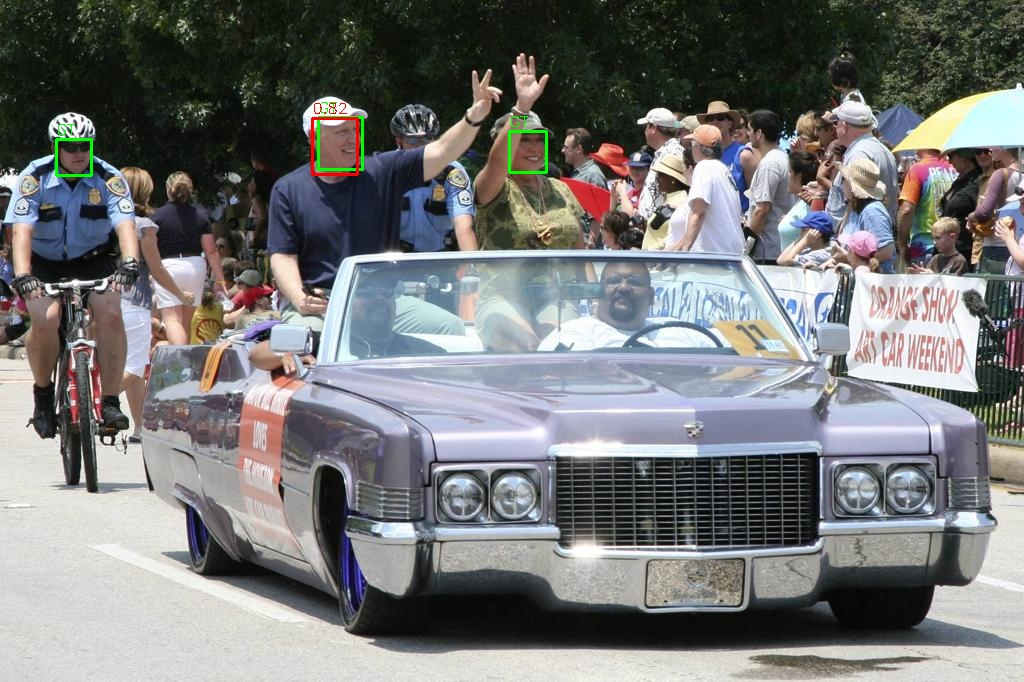
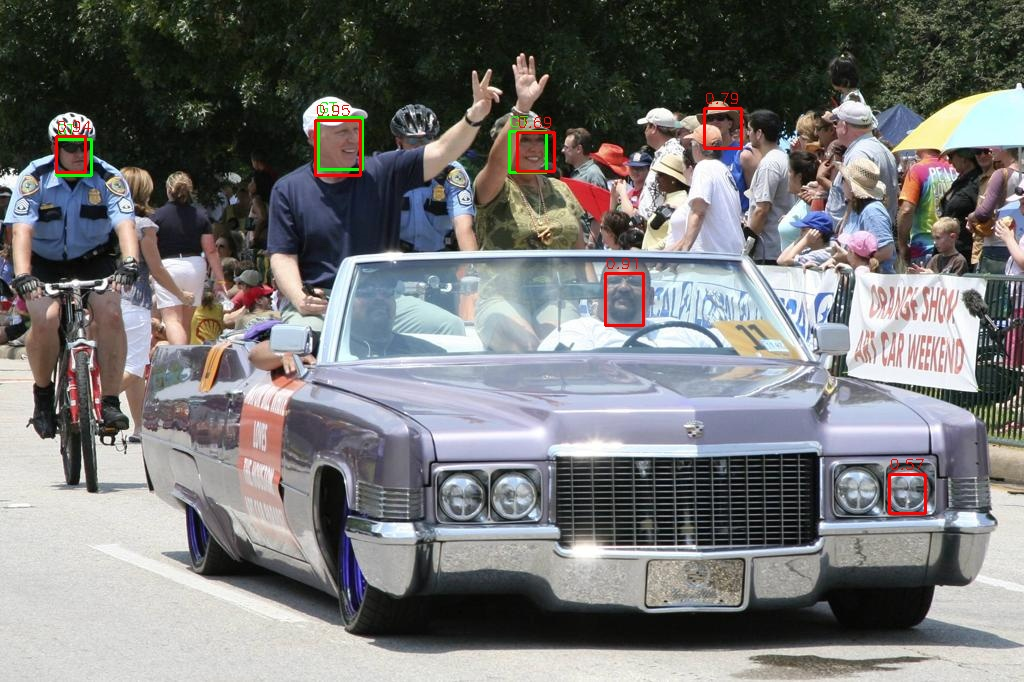
My final, some comments are wild though

diff --git a/UG-ZAD1-FACE-DETECTION/visualise_detection.py b/UG-ZAD1-FACE-DETECTION/visualise_detection.py
@@ -1,131 +1,225 @@
+# import torch
+# import cv2
+# import torchvision.transforms.v2.functional as F
+# from torch.utils.data import DataLoader
+# import os
+# import logging
+# import torchvision.transforms.v2 as transforms
+#
+# from models.FaceDetector import FaceDetectorLightning
+# from train_face_detector import collate_fn
+# from widerface_data_generation.WiderFaceDetectionDataset import WiderFaceDetectionDataset
+#
+#
+# # face_detector_ckpt_v1 = "lightning_logs/face_detector_v1/checkpoints/epoch=5-mAP=41_79.ckpt" # TODO: set when generated
+# face_detector_ckpt_v1 = "lightning_logs/face_detector_v1/checkpoints/epoch=4-mAP=40_77.ckpt" # TODO: set when generated
+# OUTPUT_DIR = "visualization_results"
+# THRESHOLD = 0.5  # Rysujemy tylko predykcje z pewnością > 50%
+# NUM_IMAGES_TO_SAVE = 10  # Ile przykładów zapisać
+# DEVICE = torch.device("cuda" if torch.cuda.is_available() else "cpu")
+#
+# os.makedirs(OUTPUT_DIR, exist_ok=True)
+#
+#
+# test_transform = transforms.Compose([
+#     transforms.ToImage(),
+#     transforms.ToDtype(torch.float32, scale=True),
+#     transforms.Normalize(mean=[0.485, 0.456, 0.406], std=[0.229, 0.224, 0.225])
+# ])
+#
+# def tensor_to_cv2_image(tensor_img):
+#     """Konwertuje tensor PyTorch [C, H, W] na obraz OpenCV [H, W, C] BGR, cofając normalizację."""
+#     img = tensor_img.clone().cpu()
+#
+#     mean = torch.tensor([0.485, 0.456, 0.406]).view(3, 1, 1)
+#     std = torch.tensor([0.229, 0.224, 0.225]).view(3, 1, 1)
+#     img = img * std + mean
+#
+#     img = torch.clamp(img, 0, 1)
+#     img_byte = (img * 255).to(torch.uint8)
+#
+#     img_numpy = img_byte.permute(1, 2, 0).numpy()
+#     img_bgr = cv2.cvtColor(img_numpy, cv2.COLOR_RGB2BGR)
+#     return img_bgr
+#
+#
+# def draw_boxes(image, boxes, color, label_text=None, scores=None):
+#     """Rysuje ramki na obrazie."""
+#     img_copy = image.copy()
+#     for i, box in enumerate(boxes):
+#         x1, y1, x2, y2 = box.int().cpu().numpy()
+#         # Rysowanie prostokąta
+#         cv2.rectangle(img_copy, (x1, y1), (x2, y2), color, 2)
+#
+#         # Dodawanie opisu (opcjonalne)
+#         if label_text or scores is not None:
+#             text = label_text if label_text else ""
+#             if scores is not None:
+#                 score = scores[i].item()
+#                 text += f" {score:.2f}" if text else f"{score:.2f}"
+#
+#             if text:
+#                 cv2.putText(img_copy, text, (x1, y1 - 5),
+#                             cv2.FONT_HERSHEY_SIMPLEX, 0.5, color, 1)
+#     return img_copy
+#
+#
+# def visualize():
+#     # 1. Ładowanie modelu
+#     logging.info(f"Loading model from {face_detector_ckpt_v1}...")
+#     model = FaceDetectorLightning.load_from_checkpoint(face_detector_ckpt_v1)
+#     model.to(DEVICE)
+#     model.eval()
+#
+#     # 2. Przygotowanie danych testowych
+#     # Używamy funkcji z train_detector.py żeby mieć ten sam split
+#     logging.info("Preparing test data...")
+#     test_ds = WiderFaceDetectionDataset(root="data", split="val", transform=test_transform)
+#     test_loader = DataLoader(test_ds, batch_size=4, collate_fn=collate_fn, num_workers=2)
+#
+#     logging.info(f"Starting visualization. Saving {NUM_IMAGES_TO_SAVE} images to '{OUTPUT_DIR}'...")
+#
+#     saved_count = 0
+#     i=0
+#     with torch.no_grad():
+#         for batch_idx, (images, targets) in enumerate(test_loader):
+#             if i == 0:
+#                 i+=1
+#                 continue
+#             if saved_count >= NUM_IMAGES_TO_SAVE:
+#                 break
+#
+#             # Przeniesienie na GPU
+#             images = [img.to(DEVICE) for img in images]
+#             target = targets[0]  # batch_size=1, więc bierzemy pierwszy element
+#
+#             # Predykcja modelu
+#             outputs = model(images)
+#             output = outputs[0]
+#
+#             # --- RYSOWANIE ---
+#             # 1. Konwersja tensora na obraz OpenCV
+#             cv2_img = tensor_to_cv2_image(images[0])
+#
+#             # 2. Rysowanie GROUND TRUTH (Zielony)
+#             gt_boxes = target['boxes']
+#             img_with_gt = draw_boxes(cv2_img, gt_boxes, color=(0, 255, 0), label_text="GT")
+#
+#             # 3. Filtrowanie i rysowanie PREDYKCJI (Czerwony)
+#             pred_boxes = []
+#             pred_scores = []
+#             for box, score in zip(output['boxes'], output['scores']):
+#                 if score > THRESHOLD:
+#                     pred_boxes.append(box)
+#                     pred_scores.append(score)
+#
+#             if pred_boxes:
+#                 pred_boxes_tensor = torch.stack(pred_boxes)
+#                 pred_scores_tensor = torch.stack(pred_scores)
+#                 # Rysujemy na obrazku, który ma już GT
+#                 final_img = draw_boxes(img_with_gt, pred_boxes_tensor,
+#                                        color=(0, 0, 255), scores=pred_scores_tensor)
+#             else:
+#                 final_img = img_with_gt
+#
+#             # Zapis do pliku
+#             save_path = os.path.join(OUTPUT_DIR, f"result_{batch_idx}.jpg")
+#             cv2.imwrite(save_path, final_img)
+#             saved_count += 1
+#             logging.info(f"Saved {save_path}")
+#
+#     logging.info("Done!")
+#
+#
+# if __name__ == '__main__':
+#     visualize()
+
+
 import torch
 import cv2
-import torchvision.transforms.v2.functional as F
-from torch.utils.data import DataLoader
 import os
 import logging
-import torchvision.transforms.v2 as transforms
+from torch.utils.data import DataLoader
+from skimage.feature import Cascade
+from skimage import data
+import numpy as np
 
-from models.FaceDetector import FaceDetectorLightning
 from train_face_detector import collate_fn
 from widerface_data_generation.WiderFaceDetectionDataset import WiderFaceDetectionDataset
 
-
-# face_detector_ckpt_v1 = "lightning_logs/face_detector_v1/checkpoints/epoch=5-mAP=41_79.ckpt" # TODO: set when generated
-face_detector_ckpt_v1 = "lightning_logs/face_detector_v1/checkpoints/epoch=4-mAP=40_77.ckpt" # TODO: set when generated
+# --- KONFIGURACJA ---
 OUTPUT_DIR = "visualization_results"
-THRESHOLD = 0.5  # Rysujemy tylko predykcje z pewnością > 50%
-NUM_IMAGES_TO_SAVE = 10  # Ile przykładów zapisać
-DEVICE = torch.device("cuda" if torch.cuda.is_available() else "cpu")
-
+NUM_IMAGES_TO_SAVE = 10
 os.makedirs(OUTPUT_DIR, exist_ok=True)
 
-
-test_transform = transforms.Compose([
-    transforms.ToImage(),
-    transforms.ToDtype(torch.float32, scale=True),
-    transforms.Normalize(mean=[0.485, 0.456, 0.406], std=[0.229, 0.224, 0.225])
-])
+# 1. Inicjalizacja Cascade (Viola-Jones)
+# Używamy wbudowanego pliku z wagami dla twarzy frontalnych
+xml_path = data.lbp_frontal_face_cascade_filename()
+detector = Cascade(xml_path)
 
 def tensor_to_cv2_image(tensor_img):
-    """Konwertuje tensor PyTorch [C, H, W] na obraz OpenCV [H, W, C] BGR, cofając normalizację."""
-    img = tensor_img.clone().cpu()
+    """Konwertuje tensor do BGR (bez normalizacji dla prostoty, jeśli test_transform jej nie ma)"""
+    img_numpy = (tensor_img.permute(1, 2, 0).cpu().numpy() * 255).astype(np.uint8)
+    return cv2.cvtColor(img_numpy, cv2.COLOR_RGB2BGR)
 
-    mean = torch.tensor([0.485, 0.456, 0.406]).view(3, 1, 1)
-    std = torch.tensor([0.229, 0.224, 0.225]).view(3, 1, 1)
-    img = img * std + mean
-
-    img = torch.clamp(img, 0, 1)
-    img_byte = (img * 255).to(torch.uint8)
-
-    img_numpy = img_byte.permute(1, 2, 0).numpy()
-    img_bgr = cv2.cvtColor(img_numpy, cv2.COLOR_RGB2BGR)
-    return img_bgr
-
-
-def draw_boxes(image, boxes, color, label_text=None, scores=None):
-    """Rysuje ramki na obrazie."""
+def draw_boxes(image, boxes, color, label_text=None):
     img_copy = image.copy()
-    for i, box in enumerate(boxes):
-        x1, y1, x2, y2 = box.int().cpu().numpy()
-        # Rysowanie prostokąta
+    for box in boxes:
+        # box spodziewany w formacie [x1, y1, x2, y2]
+        x1, y1, x2, y2 = map(int, box)
         cv2.rectangle(img_copy, (x1, y1), (x2, y2), color, 2)
-
-        # Dodawanie opisu (opcjonalne)
-        if label_text or scores is not None:
-            text = label_text if label_text else ""
-            if scores is not None:
-                score = scores[i].item()
-                text += f" {score:.2f}" if text else f"{score:.2f}"
-
-            if text:
-                cv2.putText(img_copy, text, (x1, y1 - 5),
-                            cv2.FONT_HERSHEY_SIMPLEX, 0.5, color, 1)
+        if label_text:
+            cv2.putText(img_copy, label_text, (x1, y1 - 5),
+                        cv2.FONT_HERSHEY_SIMPLEX, 0.5, color, 1)
     return img_copy
 
-
 def visualize():
-    # 1. Ładowanie modelu
-    logging.info(f"Loading model from {face_detector_ckpt_v1}...")
-    model = FaceDetectorLightning.load_from_checkpoint(face_detector_ckpt_v1)
-    model.to(DEVICE)
-    model.eval()
+    # 2. Dane testowe (bez skomplikowanych transformacji, żeby skimage widziało piksele)
+    test_ds = WiderFaceDetectionDataset(root="data", split="val", transform=None)
+    test_loader = DataLoader(test_ds, batch_size=1, collate_fn=collate_fn)
 
-    # 2. Przygotowanie danych testowych
-    # Używamy funkcji z train_detector.py żeby mieć ten sam split
-    logging.info("Preparing test data...")
-    test_ds = WiderFaceDetectionDataset(root="data", split="val", transform=test_transform)
-    test_loader = DataLoader(test_ds, batch_size=4, collate_fn=collate_fn, num_workers=2)
-
-    logging.info(f"Starting visualization. Saving {NUM_IMAGES_TO_SAVE} images to '{OUTPUT_DIR}'...")
+    logging.info(f"Start Cascade visualization. Saving to '{OUTPUT_DIR}'...")
 
     saved_count = 0
-    with torch.no_grad():
-        for batch_idx, (images, targets) in enumerate(test_loader):
-            if saved_count >= NUM_IMAGES_TO_SAVE:
-                break
+#     i=0
+    for batch_idx, (images, targets) in enumerate(test_loader):
+        if i == 0:
+            i+=1
+            continue
+        if saved_count >= NUM_IMAGES_TO_SAVE: break
 
-            # Przeniesienie na GPU
-            images = [img.to(DEVICE) for img in images]
-            target = targets[0]  # batch_size=1, więc bierzemy pierwszy element
+        # Skimage potrzebuje obrazu numpy/skimage, nie tensora
+        img_pil, target = images[0], targets[0] # transform=None zwraca PIL Image
+        img_np = np.array(img_pil) # Konwersja PIL -> Numpy
 
-            # Predykcja modelu
-            outputs = model(images)
-            output = outputs[0]
+        # 3. DETEKCJA CASCADE
+        # detector.detect zwraca: [{'r': row, 'c': col, 'width': w, 'height': h}, ...]
+        detections = detector.detect(img_np, scale_factor=1.2, step_ratio=1,
+                                     min_size=(30, 30), max_size=(500, 500))
 
-            # --- RYSOWANIE ---
-            # 1. Konwersja tensora na obraz OpenCV
-            cv2_img = tensor_to_cv2_image(images[0])
+        # Konwersja formatu Cascade [r, c, w, h] na nasz [x1, y1, x2, y2]
+        cascade_boxes = []
+        for d in detections:
+            x1, y1 = d['c'], d['r']
+            x2, y2 = x1 + d['width'], y1 + d['height']
+            cascade_boxes.append([x1, y1, x2, y2])
 
-            # 2. Rysowanie GROUND TRUTH (Zielony)
-            gt_boxes = target['boxes']
-            img_with_gt = draw_boxes(cv2_img, gt_boxes, color=(0, 255, 0), label_text="GT")
+        # 4. RYSOWANIE
+        # Konwertujemy PIL do BGR dla OpenCV
+        cv2_img = cv2.cvtColor(img_np, cv2.COLOR_RGB2BGR)
 
-            # 3. Filtrowanie i rysowanie PREDYKCJI (Czerwony)
-            pred_boxes = []
-            pred_scores = []
-            for box, score in zip(output['boxes'], output['scores']):
-                if score > THRESHOLD:
-                    pred_boxes.append(box)
-                    pred_scores.append(score)
+        # Zielone - Prawdziwe (GT)
+        gt_boxes = target['boxes'].numpy()
+        img_with_gt = draw_boxes(cv2_img, gt_boxes, color=(0, 255, 0), label_text="GT")
 
-            if pred_boxes:
-                pred_boxes_tensor = torch.stack(pred_boxes)
-                pred_scores_tensor = torch.stack(pred_scores)
-                # Rysujemy na obrazku, który ma już GT
-                final_img = draw_boxes(img_with_gt, pred_boxes_tensor,
-                                       color=(0, 0, 255), scores=pred_scores_tensor)
-            else:
-                final_img = img_with_gt
+        # Niebieskie - Przewidziane przez Cascade
+        final_img = draw_boxes(img_with_gt, cascade_boxes, color=(255, 0, 0), label_text="Cascade")
 
-            # Zapis do pliku
-            save_path = os.path.join(OUTPUT_DIR, f"result_{batch_idx}.jpg")
-            cv2.imwrite(save_path, final_img)
-            saved_count += 1
-            logging.info(f"Saved {save_path}")
-
-    logging.info("Done!")
-
+        save_path = os.path.join(OUTPUT_DIR, f"cascade_result_{batch_idx}.jpg")
+        cv2.imwrite(save_path, final_img)
+        saved_count += 1
+        print(f"Saved {save_path}")
 
 if __name__ == '__main__':
+    logging.basicConfig(level=logging.INFO)
     visualize()

diff --git a/UG-ZAD1-FACE-DETECTION/camera_custom.py b/UG-ZAD1-FACE-DETECTION/camera_custom.py
@@ -14,7 +14,7 @@ from datasets.transforms import cnn_val_tf, resnet_val_tf
 male_ckpt = "lightning_logs/gender_v1/checkpoints/epoch=24-step=31800.ckpt"
 glasses_ckpt_v1 = "lightning_logs/glasses_v1/checkpoints/epoch=9-step=12720.ckpt"
 glasses_ckpt_v2 = "lightning_logs/glasses_v2/checkpoints/epoch=8-step=11448.ckpt"
-face_detector_ckpt_v1 = "lightning_logs/face_detector_v1/checkpoints/epoch=5-mAP=41_79.ckpt" # TODO: set when generated
+face_detector_ckpt_v1 = "lightning_logs/face_detector_v1/checkpoints/epoch=4-mAP=40_77.ckpt" # TODO: set when generated
 
 male_model = LightningModel.load_from_checkpoint(
     male_ckpt,
@@ -44,12 +44,18 @@ def draw_labels(frame, boxes, labels):
 
 
 def predict_patch(patch):
-    male_x = cnn_val_tf(patch).unsqueeze(0)
-    glasses_x = resnet_val_tf(patch).unsqueeze(0)
+    # Sprawdzamy, na jakim urządzeniu jest model (np. male_model)
+    device = next(male_model.parameters()).device
+
+    # Tworzymy tensory i natychmiast przesyłamy je na to samo urządzenie (.to(device))
+    male_x = cnn_val_tf(patch).unsqueeze(0).to(device)
+    glasses_x = resnet_val_tf(patch).unsqueeze(0).to(device)
 
     with torch.no_grad():
+        # Modele są już na 'device', teraz dane też tam są
         male_logit = male_model(male_x).squeeze(1)
         glasses_logit = glasses_model(glasses_x).squeeze(1)
+
         male_prob = torch.sigmoid(male_logit).item()
         glasses_prob = torch.sigmoid(glasses_logit).item()
 

diff --git a/UG-ZAD1-FACE-DETECTION/camera.py b/UG-ZAD1-FACE-DETECTION/camera.py
@@ -39,16 +39,20 @@ def draw_labels(frame, boxes, labels):
 
 
 def predict_patch(patch):
-    male_x = cnn_val_tf(patch).unsqueeze(0)
-    glasses_x = resnet_val_tf(patch).unsqueeze(0)
+    device = next(male_model.parameters()).device
+
+    male_x = cnn_val_tf(patch).unsqueeze(0).to(device)
+    glasses_x = resnet_val_tf(patch).unsqueeze(0).to(device)
 
     with torch.no_grad():
         male_logit = male_model(male_x).squeeze(1)
         glasses_logit = glasses_model(glasses_x).squeeze(1)
+
         male_prob = torch.sigmoid(male_logit).item()
         glasses_prob = torch.sigmoid(glasses_logit).item()
 
     return male_prob > 0.5, glasses_prob > 0.5
+
 
 def expand_box(x, y, w, h, img_w, img_h, margin=1):
     pad_w = int(w * margin)

diff --git a/UG-ZAD1-FACE-DETECTION/test_face_detector.py b/UG-ZAD1-FACE-DETECTION/test_face_detector.py
@@ -12,7 +12,7 @@ logging.basicConfig(
     format="%(asctime)s [%(levelname)s] [PID %(process)d] [Thread %(threadName)s] %(message)s",
 )
 
-face_detector_ckpt_v1 = "lightning_logs/face_detector_v1/checkpoints/epoch=5-mAP=41_79.ckpt" # TODO: set when generated
+face_detector_ckpt_v1 = "lightning_logs/face_detector_v1/checkpoints/epoch=4-mAP=40_77.ckpt" # TODO: set when generated
 def collate_fn(batch):
     return tuple(zip(*batch))
 

diff --git a/UG-ZAD1-FACE-DETECTION/models/FaceDetector.py b/UG-ZAD1-FACE-DETECTION/models/FaceDetector.py
@@ -59,8 +59,8 @@ class FaceDetectorLightning(L.LightningModule):
         self.map_metric.reset()
 
     # comment out the method below for visualizing
-    # def forward(self, x):
-    #     return self.model(x)
+    def forward(self, x):
+        return self.model(x)
 
     def configure_optimizers(self):
         return torch.optim.AdamW(self.parameters(), lr=1e-5)
